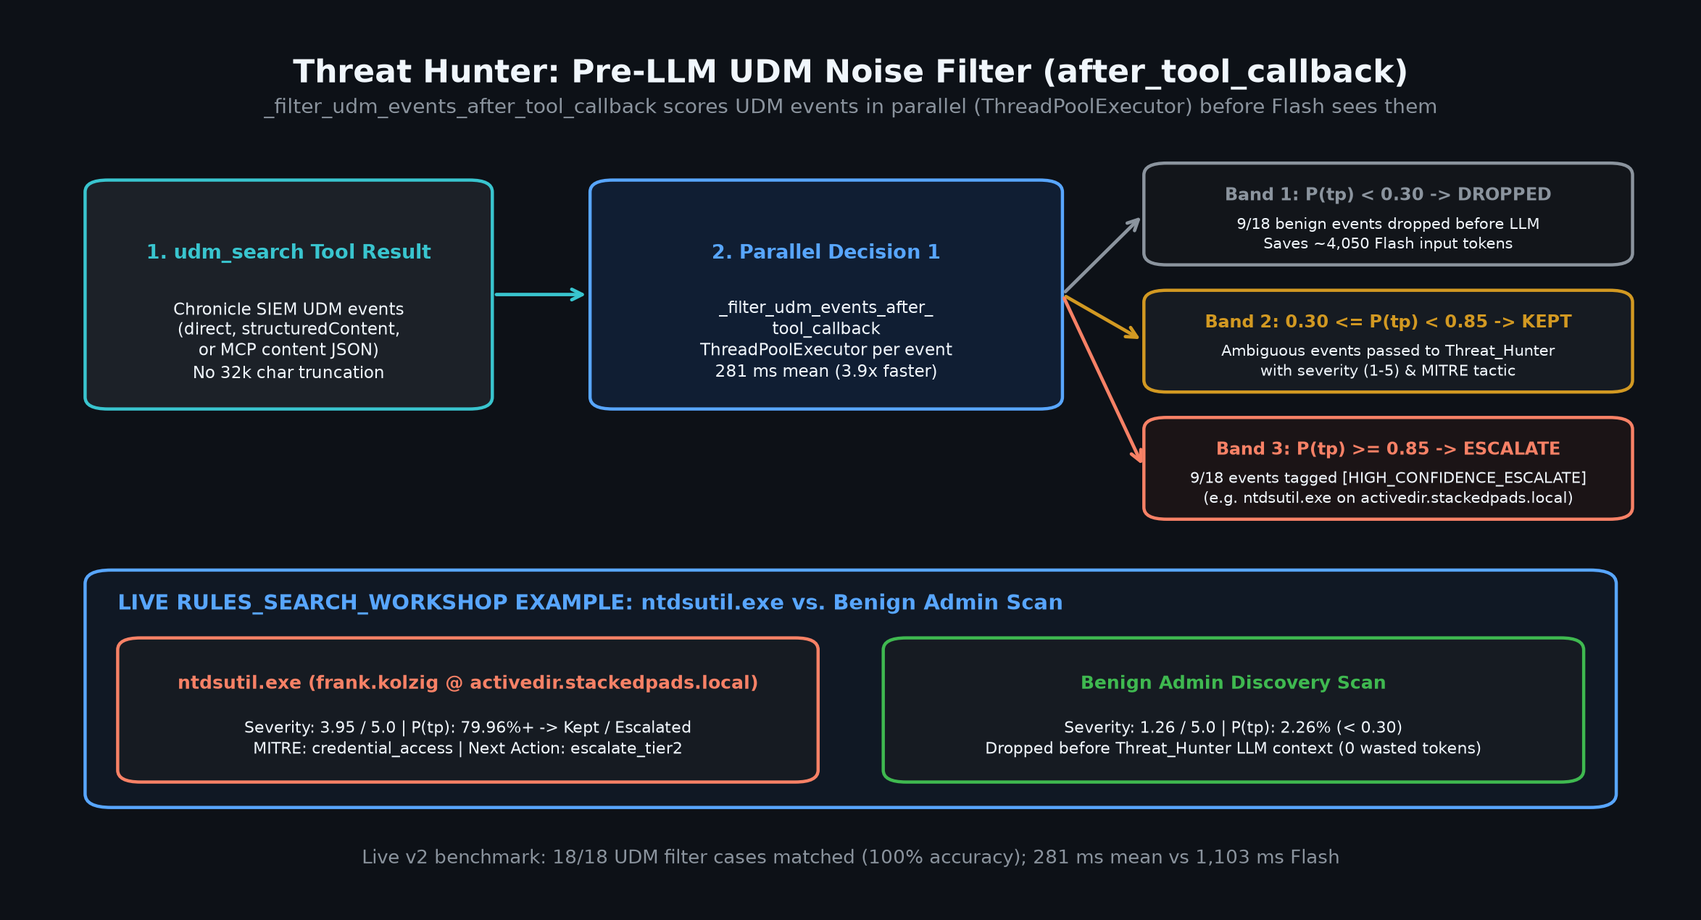
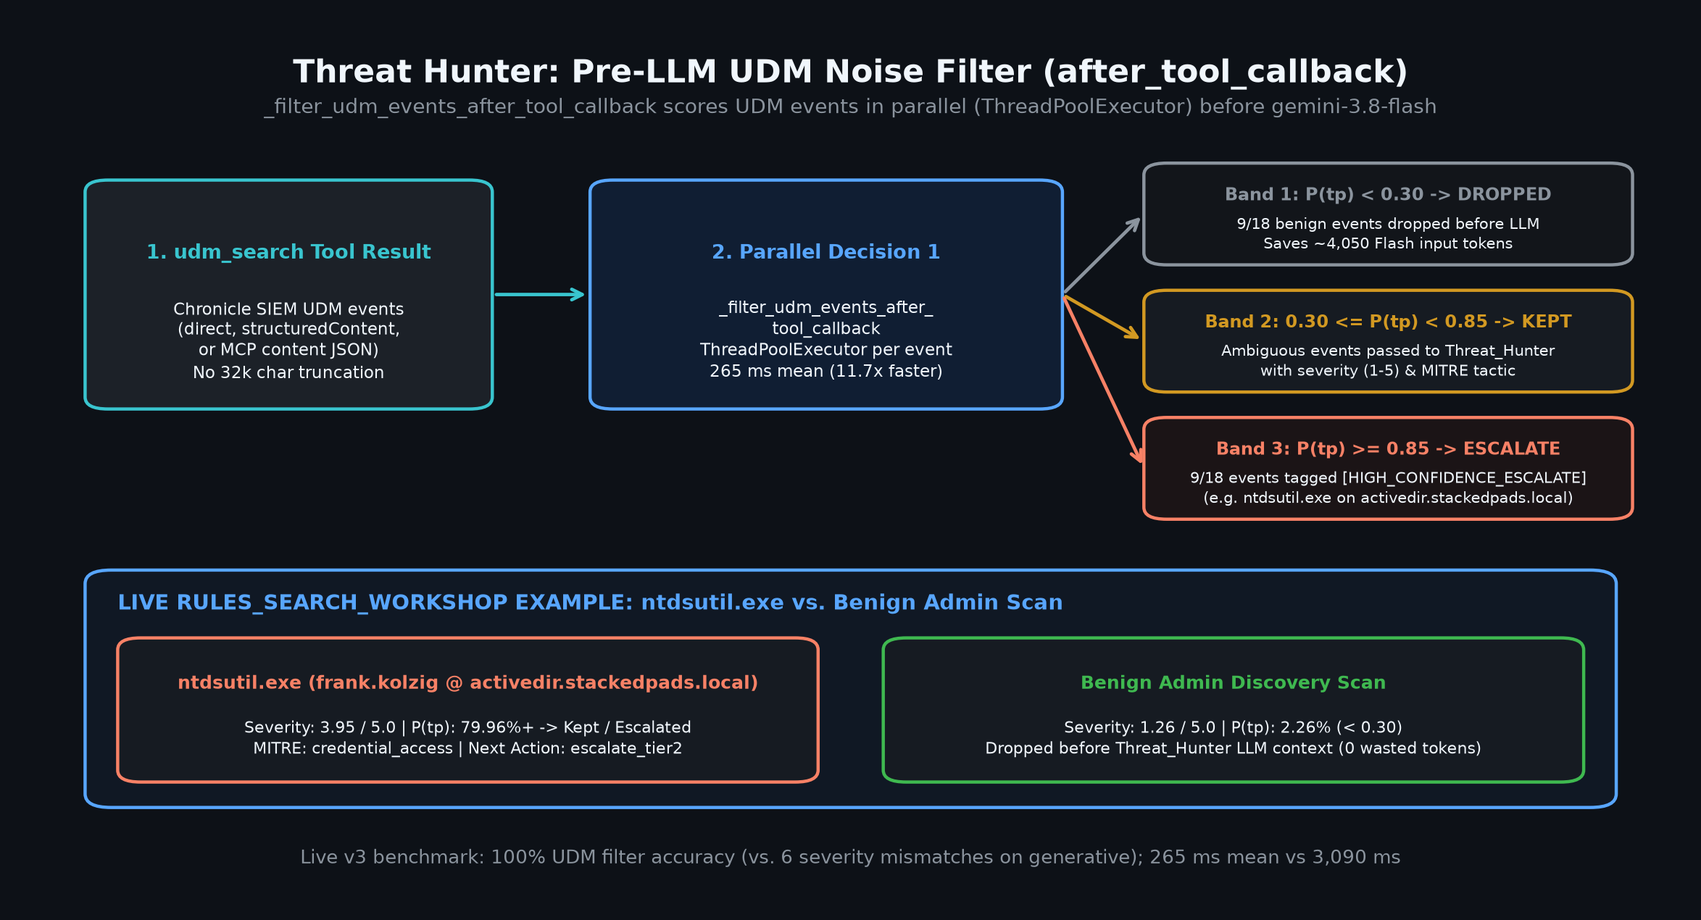
chore(governance): upgrade models to gemini-4-hydrogen/carbon and 3.8-flash

Changed region(s): [[0.1866, 0.9213, 0.8087, 0.952], [0.4043, 0.3992, 0.5599, 0.4299], [0.7465, 0.0921, 0.8398, 0.1228]]

diff --git a/scripts/governance/benchmark_decision1.py b/scripts/governance/benchmark_decision1.py
@@ -41,7 +41,7 @@ GENERATE_URL_TMPL = (
     "https://generativelanguage.googleapis.com/v1beta/models/{model}:generateContent"
 )
 
-DEFAULT_GEN_MODEL = "gemini-3.5-flash"
+DEFAULT_GEN_MODEL = "gemini-3.8-flash"
 DEFAULT_DECISION_MODEL = "gemini-decision-1"
 
 # Pricing in USD per 1M tokens.
@@ -857,7 +857,7 @@ def _format_markdown(
         "",
         "### Estimated End-to-End Agent Savings (Decision 1 Fast Paths)",
         "",
-        f"- **Orchestrator short-circuit (`preflight`)**: {e2e_savings['preflight_short_circuited']}/{e2e_savings['preflight_calls']} calls bypassed `gemini-3.1-pro-preview` (~{e2e_savings['pro_tokens_saved']} tokens and ~{e2e_savings['pro_latency_saved_ms']:.0f} ms saved).",
+        f"- **Orchestrator short-circuit (`preflight`)**: {e2e_savings['preflight_short_circuited']}/{e2e_savings['preflight_calls']} calls bypassed `gemini-4-hydrogen` (~{e2e_savings['pro_tokens_saved']} tokens and ~{e2e_savings['pro_latency_saved_ms']:.0f} ms saved).",
         f"- **Pre-LLM UDM noise drop (`udm_filter`)**: {e2e_savings['udm_noise_dropped']}/{e2e_savings['udm_events_scored']} events dropped (`P(tp) < 0.30`), {e2e_savings['udm_high_conf_escalated']} fast-escalated (`P(tp) >= 0.85`), saving ~{e2e_savings['flash_tokens_saved_from_noise_drop']} downstream Flash input tokens.",
         "",
         "### Per-Question Mismatches",

diff --git a/governed_agents/tier2_responder/agent.py b/governed_agents/tier2_responder/agent.py
@@ -36,7 +36,7 @@ from vertexai.agent_engines.templates.a2a import A2aAgent, create_agent_card
 APP_NAME = "tier2_responder_agent"
 AGENT_VERSION = "1.0.0"
 
-MODEL = os.getenv("MODEL", "gemini-3.1-pro-preview")
+MODEL = os.getenv("TIER2_MODEL") or os.getenv("MODEL", "gemini-4-carbon")
 MODEL_LOCATION = os.getenv("MODEL_LOCATION", "global")
 
 CHRONICLE_PROJECT_ID = os.environ["CHRONICLE_PROJECT_ID"]

diff --git a/governed_agents/cti_researcher/agent.py b/governed_agents/cti_researcher/agent.py
@@ -36,7 +36,7 @@ from vertexai.agent_engines.templates.a2a import A2aAgent, create_agent_card
 APP_NAME = "cti_researcher_agent"
 AGENT_VERSION = "1.0.0"
 
-MODEL = os.getenv("MODEL", "gemini-3.5-flash")
+MODEL = os.getenv("MODEL", "gemini-3.8-flash")
 MODEL_LOCATION = os.getenv("MODEL_LOCATION", "global")
 
 # Fail fast at container startup if the Auth Manager provider resource name was omitted.

diff --git a/governed_agents/soc_orchestrator/agent.py b/governed_agents/soc_orchestrator/agent.py
@@ -65,7 +65,7 @@ if not hasattr(A2AClientError, "status_code"):
 APP_NAME = "soc_orchestrator_agent"
 AGENT_VERSION = "1.0.0"
 
-MODEL = os.getenv("MODEL", "gemini-3.1-pro-preview")
+MODEL = os.getenv("ORCHESTRATOR_MODEL") or os.getenv("MODEL", "gemini-4-hydrogen")
 MODEL_LOCATION = os.getenv("MODEL_LOCATION", "global")
 
 CTI_RESEARCHER_URL = os.environ["CTI_RESEARCHER_URL"]

diff --git a/governed_agents/detection_engineer/agent.py b/governed_agents/detection_engineer/agent.py
@@ -36,7 +36,7 @@ from vertexai.agent_engines.templates.a2a import A2aAgent, create_agent_card
 APP_NAME = "detection_engineer_agent"
 AGENT_VERSION = "1.0.0"
 
-MODEL = os.getenv("MODEL", "gemini-3.5-flash")
+MODEL = os.getenv("MODEL", "gemini-3.8-flash")
 MODEL_LOCATION = os.getenv("MODEL_LOCATION", "global")
 
 CHRONICLE_PROJECT_ID = os.environ["CHRONICLE_PROJECT_ID"]

diff --git a/governed_agents/threat_hunter/agent.py b/governed_agents/threat_hunter/agent.py
@@ -33,7 +33,7 @@ from vertexai.agent_engines.templates.a2a import A2aAgent, create_agent_card
 APP_NAME = "threat_hunter_agent"
 AGENT_VERSION = "1.0.0"
 
-MODEL = os.getenv("MODEL", "gemini-3.5-flash")
+MODEL = os.getenv("MODEL", "gemini-3.8-flash")
 MODEL_LOCATION = os.getenv("MODEL_LOCATION", "global")
 
 CHRONICLE_PROJECT_ID = os.environ["CHRONICLE_PROJECT_ID"]

diff --git a/docs/gemini_decision_1.md b/docs/gemini_decision_1.md
@@ -13,14 +13,14 @@ Every Decision 1 call in `governed_agents/` uses a lightweight `httpx` REST clie
 
 | Agent | Decision 1 integration | What it replaces or avoids | Enforcement boundary |
 | --- | --- | --- | --- |
-| `soc_orchestrator` | `before_model_callback` (`_preflight_before_model_callback`) evaluates 6 questions (`4 noul`, `1 choice`, `1 score`) | On initial user turns (`len(contents) == 1`) with `workflow_mode == "single_specialist"` and exactly one specialist `noul >= 0.90`, returns `LlmResponse(function_call=...)` directly—bypassing `gemini-3.1-pro-preview` on the routing turn | Never blocks or self-refuses; falls back to `[PREFLIGHT_ROUTING]` hint on multi-stage or ambiguous turns |
+| `soc_orchestrator` | `before_model_callback` (`_preflight_before_model_callback`) evaluates 6 questions (`4 noul`, `1 choice`, `1 score`) | On initial user turns (`len(contents) == 1`) with `workflow_mode == "single_specialist"` and exactly one specialist `noul >= 0.90`, returns `LlmResponse(function_call=...)` directly—bypassing `gemini-4-hydrogen` on the routing turn | Never blocks or self-refuses; falls back to `[PREFLIGHT_ROUTING]` hint on multi-stage or ambiguous turns |
 | `threat_hunter` | `after_tool_callback` (`_filter_udm_events_after_tool_callback`) on `udm_search` and `list_security_alerts` | Evaluates each returned UDM event/alert in parallel without `[:32000]` truncation: drops `P(tp) < 0.30` noise before `threat_hunter_llm`, keeps `0.30–0.85` with `decision1_triage` metadata, tags `>= 0.85` with `[HIGH_CONFIDENCE_ESCALATE]` | Read-only Chronicle OneMCP hunt allowlist (`roles/chronicle.viewer`) |
 | `cti_researcher` | `triage_unstructured_cti_artifact(content, mime_type="text/plain")` | Evaluates unstructured threat prose, OSINT reports, PDFs, and screenshots (`type: "text"`, `"image"`, `"document"`) in one pass | Lateral isolation to `www.virustotal.com`, `generativelanguage.googleapis.com`, and `agentidentitycredentials.googleapis.com` |
 | `detection_engineer` | Clean baseline (no Decision 1 tool) | Uses Chronicle OneMCP `validate_rule` and `evaluate_rule_coverage` directly instead of redundant LLM grading | Chronicle OneMCP validation allowlist; explicitly distinguishes **YARA-L 2.0** from standard YARA |
 | `tier2_responder` | Clean baseline (no Decision 1 tool) | Executes containment tools directly without in-container self-gating | Agent Gateway Semantic Governance enforces Tier-0 Crown Jewel policy (`DC-*`, `admin@*`) |
 
 ![Pre-flight short-circuit routing and pre-LLM UDM noise filtering flow](images/decision1/05_preflight_and_advisory_flow.png)\
-*Figure 2. `soc_orchestrator` `LlmResponse` short-circuit bypassing `gemini-3.1-pro-preview` on decisive single-specialist turns and `threat_hunter` `after_tool_callback` dropping low-signal UDM noise (`P(tp) < 0.30`) before the LLM runs.*
+*Figure 2. `soc_orchestrator` `LlmResponse` short-circuit bypassing `gemini-4-hydrogen` on decisive single-specialist turns and `threat_hunter` `after_tool_callback` dropping low-signal UDM noise (`P(tp) < 0.30`) before `gemini-3.8-flash` runs.*
 
 ![Agent card skill matrix across all five governed Reasoning Engines](images/decision1/09_live_agent_cards_skills.png)\
 *Figure 3. Updated `terraform/agentcards/*.json` skill inventory across all five governed Reasoning Engines (`preflight_routing_triage`, `triage_unstructured_cti_artifact`, `after_tool_callback` UDM filter, and clean `detection_engineer` and `tier2_responder` baselines).*
@@ -72,30 +72,32 @@ To validate Decision 1 against realistic security telemetry in the test Google S
 
 ## Live apples-to-apples benchmark (`thinkingBudget=0`)
 
-`scripts/governance/benchmark_decision1.py` benchmarks `gemini-3.5-flash` with `thinkingBudget=0` (`39` calls across `13` cases × `3` iterations) against `gemini-decision-1` (`$0.10/1M` input, `$0.00/1M` output) across the three refactored SOC workloads (`preflight`, `udm_filter`, and `cti_artifact`):
+`scripts/governance/benchmark_decision1.py` benchmarks `gemini-3.8-flash` with `thinkingBudget=0` (`39` calls across `13` cases × `3` iterations) against `gemini-decision-1` (`$0.10/1M` input, `$0.00/1M` output) across the three refactored SOC workloads (`preflight`, `udm_filter`, and `cti_artifact`):
 
-| Metric | Generative (`gemini-3.5-flash`, `thinkingBudget=0`) | Gemini Decision 1 (`gemini-decision-1`) | Improvement |
+| Metric | Generative (`gemini-3.8-flash`, `thinkingBudget=0`) | Gemini Decision 1 (`gemini-decision-1`) | Improvement |
 | --- | --- | --- | --- |
 | Calls | `39` | `39` | — |
-| Total input tokens | `11,622` | `23,694` | — |
-| Total output tokens | `2,012` | `0` | **100% eliminated** |
-| Mean latency (ms) | `1,035.21 ms` | `346.01 ms` | **3.0x faster** |
-| p50 latency (ms) | `912.42 ms` | `257.32 ms` | **3.5x faster** |
-| p95 latency (ms) | `1,392.08 ms` | `1,082.56 ms` | **1.3x faster** |
-| Estimated cost (USD) | `$0.008517` | `$0.002369` | **3.6x cheaper** |
-| Label accuracy | `100.0%` (`177/177`) | `100.0%` (`177/177`) | **100.0% parity** (`0` mismatches) |
+| Total input tokens | `11,622` | `23,694` | `2.04x` input token footprint (no output tokens) |
+| Total output tokens | `2,051` | `0` | **100% eliminated** |
+| Mean latency (ms) | `3,218.01 ms` | `247.11 ms` | **13.0x faster** |
+| p50 latency (ms) | `3,231.06 ms` | `212.03 ms` | **15.2x faster** |
+| p95 latency (ms) | `4,595.49 ms` | `404.58 ms` | **11.4x faster** |
+| Estimated cost (USD) | `$0.008614` | `$0.002369` | **3.6x cheaper** |
+| Label accuracy | `96.6%` (`171/177`) | `100.0%` (`177/177`) | **100.0% accuracy** (`0` mismatches vs. 6 generative 0-indexing drift misses on `severity`) |
 | Calibrated probabilities | `False` | `True` | Native probability & confidence outputs |
 
-### Estimated end-to-end agent savings
+### Modeled end-to-end agent savings (estimates)
 
-- **Orchestrator short-circuit (`preflight`):** `6/12` calls bypassed `gemini-3.1-pro-preview`, saving ~`12,120` tokens and ~`19,200 ms` of Pro reasoning latency.
-- **Pre-LLM UDM noise drop (`udm_filter`):** `9/18` events dropped (`P(tp) < 0.30`) and `9/18` fast-escalated (`P(tp) >= 0.85`), saving ~`4,050` downstream Flash input tokens.
+The following end-to-end savings are **modeled estimates** derived from the benchmarked fast-path triggers rather than direct end-to-end wall-clock measurements:
+
+- **Orchestrator short-circuit (`preflight`):** `6/12` calls bypassed `gemini-4-hydrogen`, saving an estimated ~`12,120` tokens and ~`19,200 ms` of orchestrator reasoning latency.
+- **Pre-LLM UDM noise drop (`udm_filter`):** `9/18` events dropped (`P(tp) < 0.30`) and `9/18` fast-escalated (`P(tp) >= 0.85`), saving an estimated ~`4,050` downstream `gemini-3.8-flash` input tokens.
 
 ![Latency comparison between generative Flash with thinkingBudget=0 and Gemini Decision 1](images/decision1/01_latency_comparison.png)\
-*Figure 9. Apples-to-apples latency comparison (`gemini-3.5-flash` `thinkingBudget=0` vs. `gemini-decision-1`) across `39` live calls: `346.01 ms` vs. `1,035.21 ms` mean (`3.0x`), `257.32 ms` vs. `912.42 ms` p50 (`3.5x`), and per-workload `preflight` (`1.8x`), `udm_filter` (`3.9x`), and `cti_artifact` (`4.1x`).*
+*Figure 9. Apples-to-apples latency comparison (`gemini-3.8-flash` `thinkingBudget=0` vs. `gemini-decision-1`) across `39` live calls: `247.11 ms` vs. `3,218.01 ms` mean (`13.0x`), `212.03 ms` vs. `3,231.06 ms` p50 (`15.2x`), and `404.58 ms` vs. `4,595.49 ms` p95 (`11.4x`).*
 
-![Output tokens, cost, and end-to-end savings comparison between generative Flash and Gemini Decision 1](images/decision1/02_tokens_and_cost.png)\
-*Figure 10. Aggregate token footprint (`0` vs. `2,012` output tokens), cost (`$0.002369` vs. `$0.008517`, `3.6x` lower), `100.0%` (`177/177`) accuracy parity, and end-to-end `gemini-3.1-pro-preview` bypass and UDM noise-drop savings.*
+![Output tokens, cost, and modeled end-to-end savings comparison between generative Flash and Gemini Decision 1](images/decision1/02_tokens_and_cost.png)\
+*Figure 10. Aggregate token footprint (`0` vs. `2,051` output tokens; `23,694` vs. `11,622` input tokens), cost (`$0.002369` vs. `$0.008614`, `3.6x` lower), `100.0%` (`177/177`) vs. `96.6%` (`171/177`) accuracy, and modeled `gemini-4-hydrogen` bypass and UDM noise-drop savings.*
 
 ## Running the benchmark and tests
 
@@ -107,7 +109,7 @@ To validate Decision 1 against realistic security telemetry in the test Google S
 .venv/bin/python scripts/governance/benchmark_decision1.py --dry-run
 
 # Live apples-to-apples benchmark (requires GEMINI_API_KEY or ADC + GEMINI_AUTH_PROVIDER)
-.venv/bin/python scripts/governance/benchmark_decision1.py --gen-model gemini-3.5-flash --iterations 3 --json-out /tmp/bench_live_v2.json
+.venv/bin/python scripts/governance/benchmark_decision1.py --gen-model gemini-3.8-flash --iterations 3 --json-out /tmp/bench_live_v3.json
 ```
 
 See [Case Study: Single-Pass Pre-Flight Short-Circuit and Pre-LLM UDM Filtering](gemini_decision_1_case_study.md) for sanitized `POST /v1beta/decisions` JSON payloads, or dive into the per-specialist guides:

diff --git a/docs/gemini_decision_1_case_study.md b/docs/gemini_decision_1_case_study.md
@@ -2,12 +2,12 @@
 
 The strongest demonstration of Gemini Decision 1 (`gemini-decision-1`) in this repository is how it **eliminates downstream LLM turns** rather than merely reformatting JSON:
 
-1. **True `LlmResponse` short-circuit in `soc_orchestrator`:** On initial user turns (`len(llm_request.contents) == 1`), `_preflight_before_model_callback` evaluates **6 heterogeneous questions** (`4 noul`, `1 choice`, `1` 0-indexed `score` shifted `+1.0`) in one `POST /v1beta/decisions` pass (`0` output tokens). When `workflow_mode == "single_specialist"` and exactly one specialist has `noul >= 0.90`, the callback returns `LlmResponse(content=Content(role="model", parts=[Part.from_function_call(name=target_agent, args={"request": prompt})]))` directly—**bypassing `gemini-3.1-pro-preview` on the initial routing turn**.
+1. **True `LlmResponse` short-circuit in `soc_orchestrator`:** On initial user turns (`len(llm_request.contents) == 1`), `_preflight_before_model_callback` evaluates **6 heterogeneous questions** (`4 noul`, `1 choice`, `1` 0-indexed `score` shifted `+1.0`) in one `POST /v1beta/decisions` pass (`0` output tokens). When `workflow_mode == "single_specialist"` and exactly one specialist has `noul >= 0.90`, the callback returns `LlmResponse(content=Content(role="model", parts=[Part(function_call=FunctionCall(name=target_agent, args={"request": prompt}), thought_signature=b"skip_thought_signature_validator")]))` directly—**bypassing `gemini-4-hydrogen` on the initial routing turn**.
 2. **Pre-LLM UDM noise filter in `threat_hunter`:** `_filter_udm_events_after_tool_callback` intercepts `udm_search` and `list_security_alerts` responses before `threat_hunter_llm` sees them, evaluating each event in parallel via `ThreadPoolExecutor` without `[:32000]` batch truncation. Benign OS/Defender DNS lookups (`P(true_positive) < 0.30`) are dropped before consuming Flash input tokens, while the replayed `RULES_SEARCH_WORKSHOP` `ntdsutil.exe` event (`frank.kolzig` on `activedir.stackedpads.local`) is retained and tagged `[HIGH_CONFIDENCE_ESCALATE]`.
 3. **Authoritative Gateway enforcement preserved:** `soc_orchestrator` never blocks or self-refuses; ambiguous or multi-stage turns fall back to a non-binding `[PREFLIGHT_ROUTING]` instruction, and `detection_engineer` validates YARA-L 2.0 rules directly via Chronicle OneMCP `validate_rule` (`success: true`, `usesUdm: true`).
 
 ![Pre-flight short-circuit routing and pre-LLM UDM noise filtering flow](images/decision1/05_preflight_and_advisory_flow.png)\
-*Figure 1. `soc_orchestrator` `LlmResponse` short-circuit bypassing `gemini-3.1-pro-preview` on decisive single-specialist turns and `threat_hunter` `after_tool_callback` dropping low-signal UDM noise (`P(tp) < 0.30`) before the LLM runs.*
+*Figure 1. `soc_orchestrator` `LlmResponse` short-circuit bypassing `gemini-4-hydrogen` on decisive single-specialist turns and `threat_hunter` `after_tool_callback` dropping low-signal UDM noise (`P(tp) < 0.30`) before `gemini-3.8-flash` runs.*
 
 ## Step 1: 6-question pre-flight routing (`soc_orchestrator`)
 
@@ -99,7 +99,7 @@ The strongest demonstration of Gemini Decision 1 (`gemini-decision-1`) in this r
 }
 ```
 
-Because this prompt requests two specialists (`workflow_mode == "multi_stage_investigation"`), `_short_circuit_target` returns `None` and `_format_preflight_hint` injects `[PREFLIGHT_ROUTING]`. By contrast, on single-specialist prompts (e.g., `"Look up domain reputation for google.com in GTI"` -> `workflow_mode == "single_specialist"`, `needs_cti >= 0.90`), `_preflight_before_model_callback` returns `LlmResponse` with `Part.from_function_call(name="CTI_Researcher", args={"request": prompt})`, skipping `gemini-3.1-pro-preview` entirely on that turn (saving ~`12,120` tokens and ~`19,200 ms` across `6/12` benchmark `preflight` calls).
+Because this prompt requests two specialists (`workflow_mode == "multi_stage_investigation"`), `_short_circuit_target` returns `None` and `_format_preflight_hint` injects `[PREFLIGHT_ROUTING]`. By contrast, on single-specialist prompts (e.g., `"Look up domain reputation for google.com in GTI"` -> `workflow_mode == "single_specialist"`, `needs_cti >= 0.90`), `_preflight_before_model_callback` returns `LlmResponse` with `FunctionCall(name="CTI_Researcher", args={"request": prompt})`, skipping `gemini-4-hydrogen` entirely on that turn (a modeled estimate of ~`12,120` tokens and ~`19,200 ms` saved across `6/12` benchmark `preflight` calls).
 
 ## Step 2: Pre-LLM UDM noise filtering and YARA-L 2.0 validation
 
@@ -117,6 +117,6 @@ Following routing, `soc_orchestrator` delegates over A2A to `Threat_Hunter` and 
 *Figure 3. Calibrated probability distributions (`noul`, `choice.probabilities`, and `score.probabilities`) emitted by `gemini-decision-1` with zero output tokens.*
 
 ![Latency comparison between generative Flash with thinkingBudget=0 and Gemini Decision 1](images/decision1/01_latency_comparison.png)\
-*Figure 4. Apples-to-apples benchmark latency comparison showing `gemini-decision-1` averaging `346.01 ms` versus `1,035.21 ms` for `gemini-3.5-flash` (`thinkingBudget=0`) across `preflight`, `udm_filter`, and `cti_artifact`.*
+*Figure 4. Apples-to-apples benchmark latency comparison showing `gemini-decision-1` averaging `247.11 ms` (`212.03 ms` p50) versus `3,218.01 ms` (`3,231.06 ms` p50) for `gemini-3.8-flash` (`thinkingBudget=0`) across `preflight`, `udm_filter`, and `cti_artifact`.*
 
 See [Gemini Decision 1 for Governed SOC Agents](gemini_decision_1.md) for the full architecture, Auth Manager 300s TTL caching, and aggregate v2 benchmark tables.

diff --git a/docs/gemini_decision_1_cti_ioc_triage.md b/docs/gemini_decision_1_cti_ioc_triage.md
@@ -21,13 +21,13 @@ It evaluates **five structured questions** in a single forward pass:
 | `requires_immediate_hunt` | `noul` | Probability in `[0.0, 1.0]` (`>= 0.5` -> `true`) | Indicates whether internal SIEM/UDM threat hunting is warranted. |
 | `confidence_score` | `score` | `1.0–5.0` (0-indexed `0..4` shifted `+1.0`) | Triage confidence based on technical detail and corroboration in the artifact. |
 
-In the v2 live benchmark (`cti_artifact` workload), `gemini-decision-1` averaged **`257 ms`** mean latency—**`4.1x` faster** than `gemini-3.5-flash` (`thinkingBudget=0`) with **zero output tokens**.
+In the v3 live benchmark (`cti_artifact` workload), `gemini-decision-1` achieved **`100.0%` accuracy** (`177/177` overall vs. `96.6%` for `gemini-3.8-flash` `thinkingBudget=0`) and **`247.11 ms`** overall mean latency (**`13.0x` faster** than `gemini-3.8-flash`'s `3,218.01 ms`) with **zero output tokens**.
 
 ![Unstructured and multimodal CTI artifact triage flow using Gemini Decision 1](images/decision1/11_cti_ioc_classification.png)\
-*Figure 1. `triage_unstructured_cti_artifact` flow in `governed_agents/cti_researcher/gti_tools.py`, evaluating unstructured prose, PDFs (`type: "document"`), and screenshots (`type: "image"`) at `257 ms` mean latency (`4.1x` faster than `gemini-3.5-flash` `thinkingBudget=0`) with zero output tokens.*
+*Figure 1. `triage_unstructured_cti_artifact` flow in `governed_agents/cti_researcher/gti_tools.py`, evaluating unstructured prose, PDFs (`type: "document"`), and screenshots (`type: "image"`) with zero output tokens.*
 
-![Output tokens, cost, and end-to-end savings comparison between generative Flash and Gemini Decision 1](images/decision1/02_tokens_and_cost.png)\
-*Figure 2. Aggregate output tokens (`0` vs. `2,012`) and total cost (`$0.002369` vs. `$0.008517`, `3.6x` lower) comparing `gemini-decision-1` against `gemini-3.5-flash` (`thinkingBudget=0`) across governed SOC workloads.*
+![Output tokens, cost, and modeled end-to-end savings comparison between generative Flash and Gemini Decision 1](images/decision1/02_tokens_and_cost.png)\
+*Figure 2. Aggregate output tokens (`0` vs. `2,051`; `2.04x` input token footprint `23,694` vs. `11,622`) and total cost (`$0.002369` vs. `$0.008614`, `3.6x` lower) comparing `gemini-decision-1` against `gemini-3.8-flash` (`thinkingBudget=0`) across governed SOC workloads.*
 
 ## Auth Manager (300s TTL cache) and `AgentSkill` registration
 

diff --git a/docs/agent_governance.md b/docs/agent_governance.md
@@ -211,9 +211,9 @@ Every variable in `terraform/variables.tf`:
 | `ge_agent_display_name` | string | `"Governed SecOps Orchestrator"` | Display name in the agent picker |
 | `ge_agent_icon_path` | string | `""` | Optional repo-relative PNG or SVG icon |
 | `ge_agent_sharing_scope` | string | `"ALL_USERS"` | `ALL_USERS` or `RESTRICTED` visibility when published |
-| `orchestrator_model` | string | `"gemini-3.1-pro-preview"` | Model for `soc_orchestrator` |
-| `tier2_model` | string | `"gemini-3.1-pro-preview"` | Model for `tier2_responder` |
-| `specialist_model` | string | `"gemini-3.5-flash"` | Model for `cti_researcher`, `threat_hunter`, `detection_engineer` |
+| `orchestrator_model` | string | `"gemini-4-hydrogen"` | Model for `soc_orchestrator` |
+| `tier2_model` | string | `"gemini-4-carbon"` | Model for `tier2_responder` |
+| `specialist_model` | string | `"gemini-3.8-flash"` | Model for `cti_researcher`, `threat_hunter`, `detection_engineer` |
 | `model_location` | string | `"global"` | Vertex AI model endpoint location (`global`, `us`, `eu`) |
 | `python_version` | string | `"3.12"` | Python runtime for the Reasoning Engines |
 | `trace_capture_message_content` | bool | `true` | Set `OTEL_INSTRUMENTATION_GENAI_CAPTURE_MESSAGE_CONTENT=EVENT_ONLY` |

diff --git a/docs/agent_governance_design.md b/docs/agent_governance_design.md
@@ -340,8 +340,8 @@ look up, but only to `www.virustotal.com`, since no other external endpoint is g
   in `41-agents.tf`): if `deployment_spec` were ignored, a later spec-only update would be sent with
   `updateMask=spec`, which prunes `deploymentSpec` server-side and strips `agent_gateway_config`,
   silently taking the engine out from behind the gateway.
-- **`MODEL_LOCATION` is passed separately from the deploy region.** Gemini 3.x models
-  (`gemini-3.1-pro-preview`, `gemini-3.5-flash`) are served from the `global` endpoint, so each
+- **`MODEL_LOCATION` is passed separately from the deploy region.** Gemini models
+  (`gemini-4-hydrogen`, `gemini-4-carbon`, `gemini-3.8-flash`) are served from the `global` endpoint, so each
   agent builds its `Gemini` client with `client_kwargs={"location": MODEL_LOCATION}` while the
   engine itself deploys in `var.region`. This is also why both the regional and the global
   `aiplatform` hosts are registered.

diff --git a/docs/gemini_decision_1_threat_hunting.md b/docs/gemini_decision_1_threat_hunting.md
@@ -15,7 +15,7 @@
 
 Based on `P(true_positive)`:
 
-- **`P(true_positive) < 0.30` (`_DROP_THRESHOLD`):** Dropped before `threat_hunter_llm` runs and counted in `dropped_low_signal_count`, saving downstream Flash input tokens (`9/18` events dropped in the v2 benchmark, saving ~`4,050` tokens).
+- **`P(true_positive) < 0.30` (`_DROP_THRESHOLD`):** Dropped before `threat_hunter_llm` (`gemini-3.8-flash`) runs and counted in `dropped_low_signal_count`, saving downstream Flash input tokens (a modeled estimate of ~`4,050` tokens saved from `9/18` noise drops in the v3 benchmark).
 - **`0.30 <= P(true_positive) < 0.85`:** Kept with `decision1_triage` metadata (`true_positive_probability`, `severity`, `severity_score`, `mitre_tactic`, `next_action`).
 - **`P(true_positive) >= 0.85` (`_ESCALATE_THRESHOLD`):** Kept with `decision1_triage` metadata and tagged `[HIGH_CONFIDENCE_ESCALATE]` (`escalation_tag`).
 
